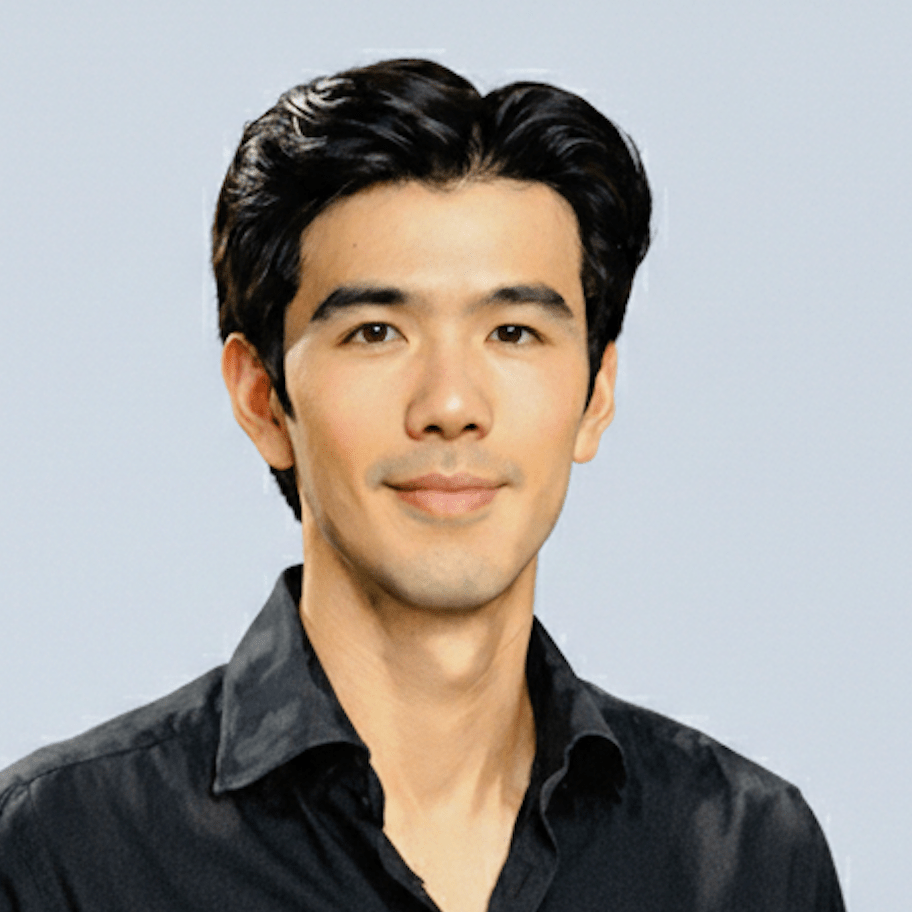
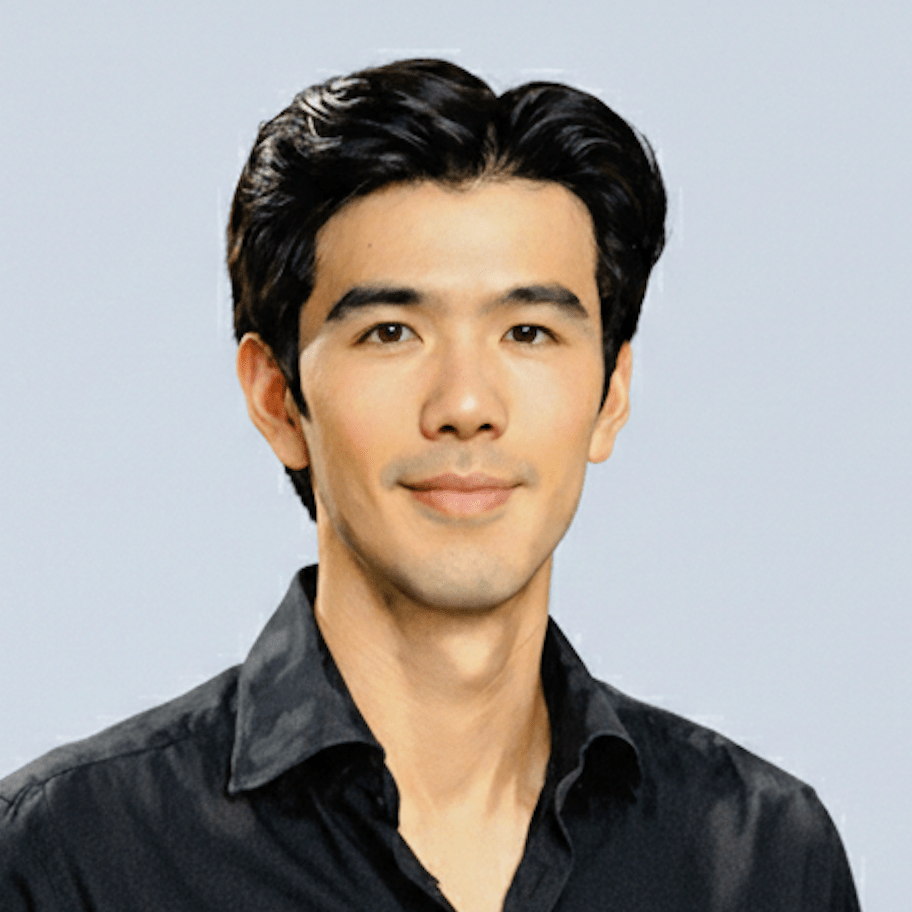
Fine tune profile crop alignment

Changed region(s): [[0.0, 0.0614, 0.9518, 1.0], [0.0, 0.9518, 0.1228, 1.0], [0.5833, 0.9825, 0.614, 1.0]]

diff --git a/index.html b/index.html
@@ -14,7 +14,7 @@
     />
     <meta property="og:type" content="website" />
     <meta property="og:url" content="https://kennyhuachan.com/" />
-    <meta property="og:image" content="https://kennyhuachan.com/assets/kenny-profile.png?v=20260517-2" />
+    <meta property="og:image" content="https://kennyhuachan.com/assets/kenny-profile.png?v=20260517-3" />
     <title>Kenny Chan</title>
     <link rel="icon" href="assets/logo-symbol.png" />
     <link rel="apple-touch-icon" href="assets/logo-symbol.png" />
@@ -40,7 +40,7 @@
       <section class="profile" aria-labelledby="profile-intro">
         <img
           class="profile-photo"
-          src="assets/kenny-profile.png?v=20260517-2"
+          src="assets/kenny-profile.png?v=20260517-3"
           alt="Kenny Chan"
           width="256"
           height="256"